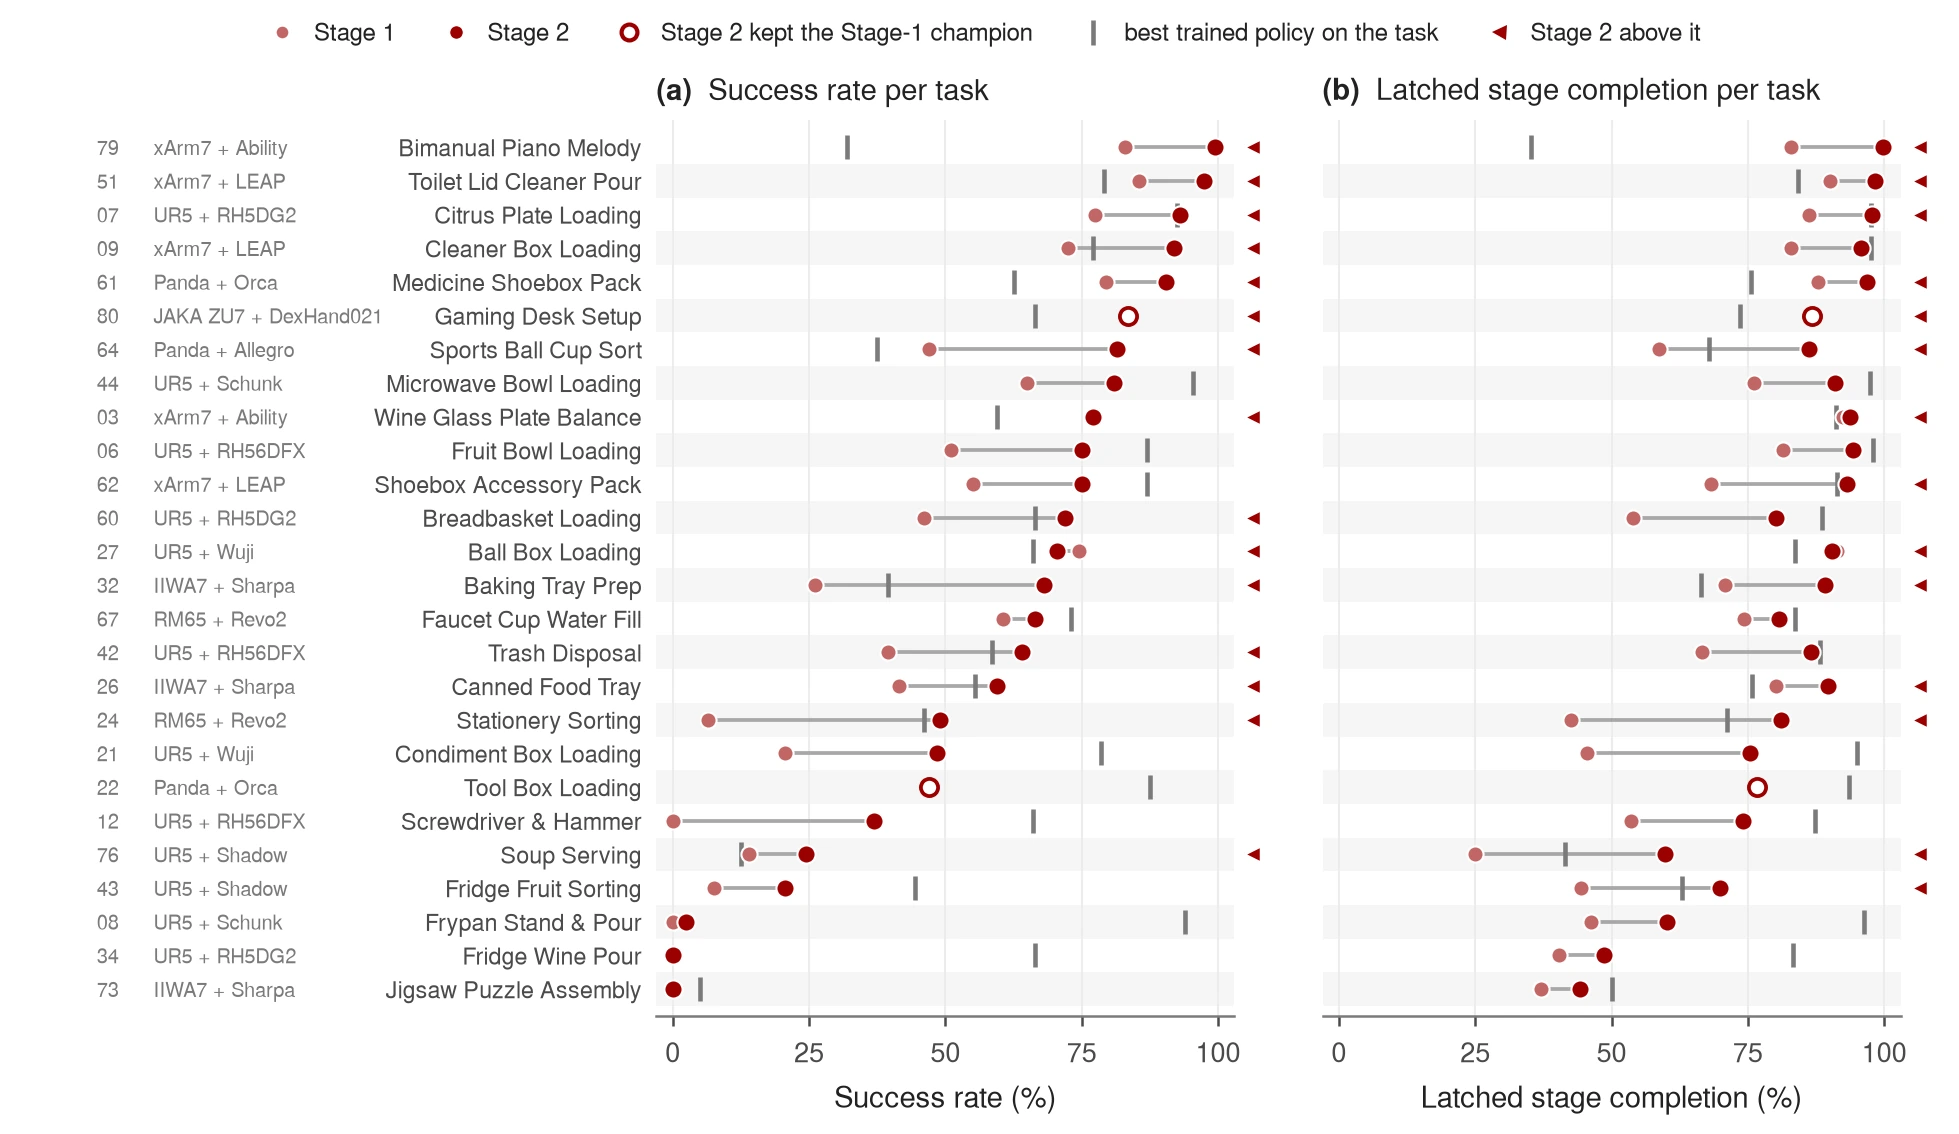
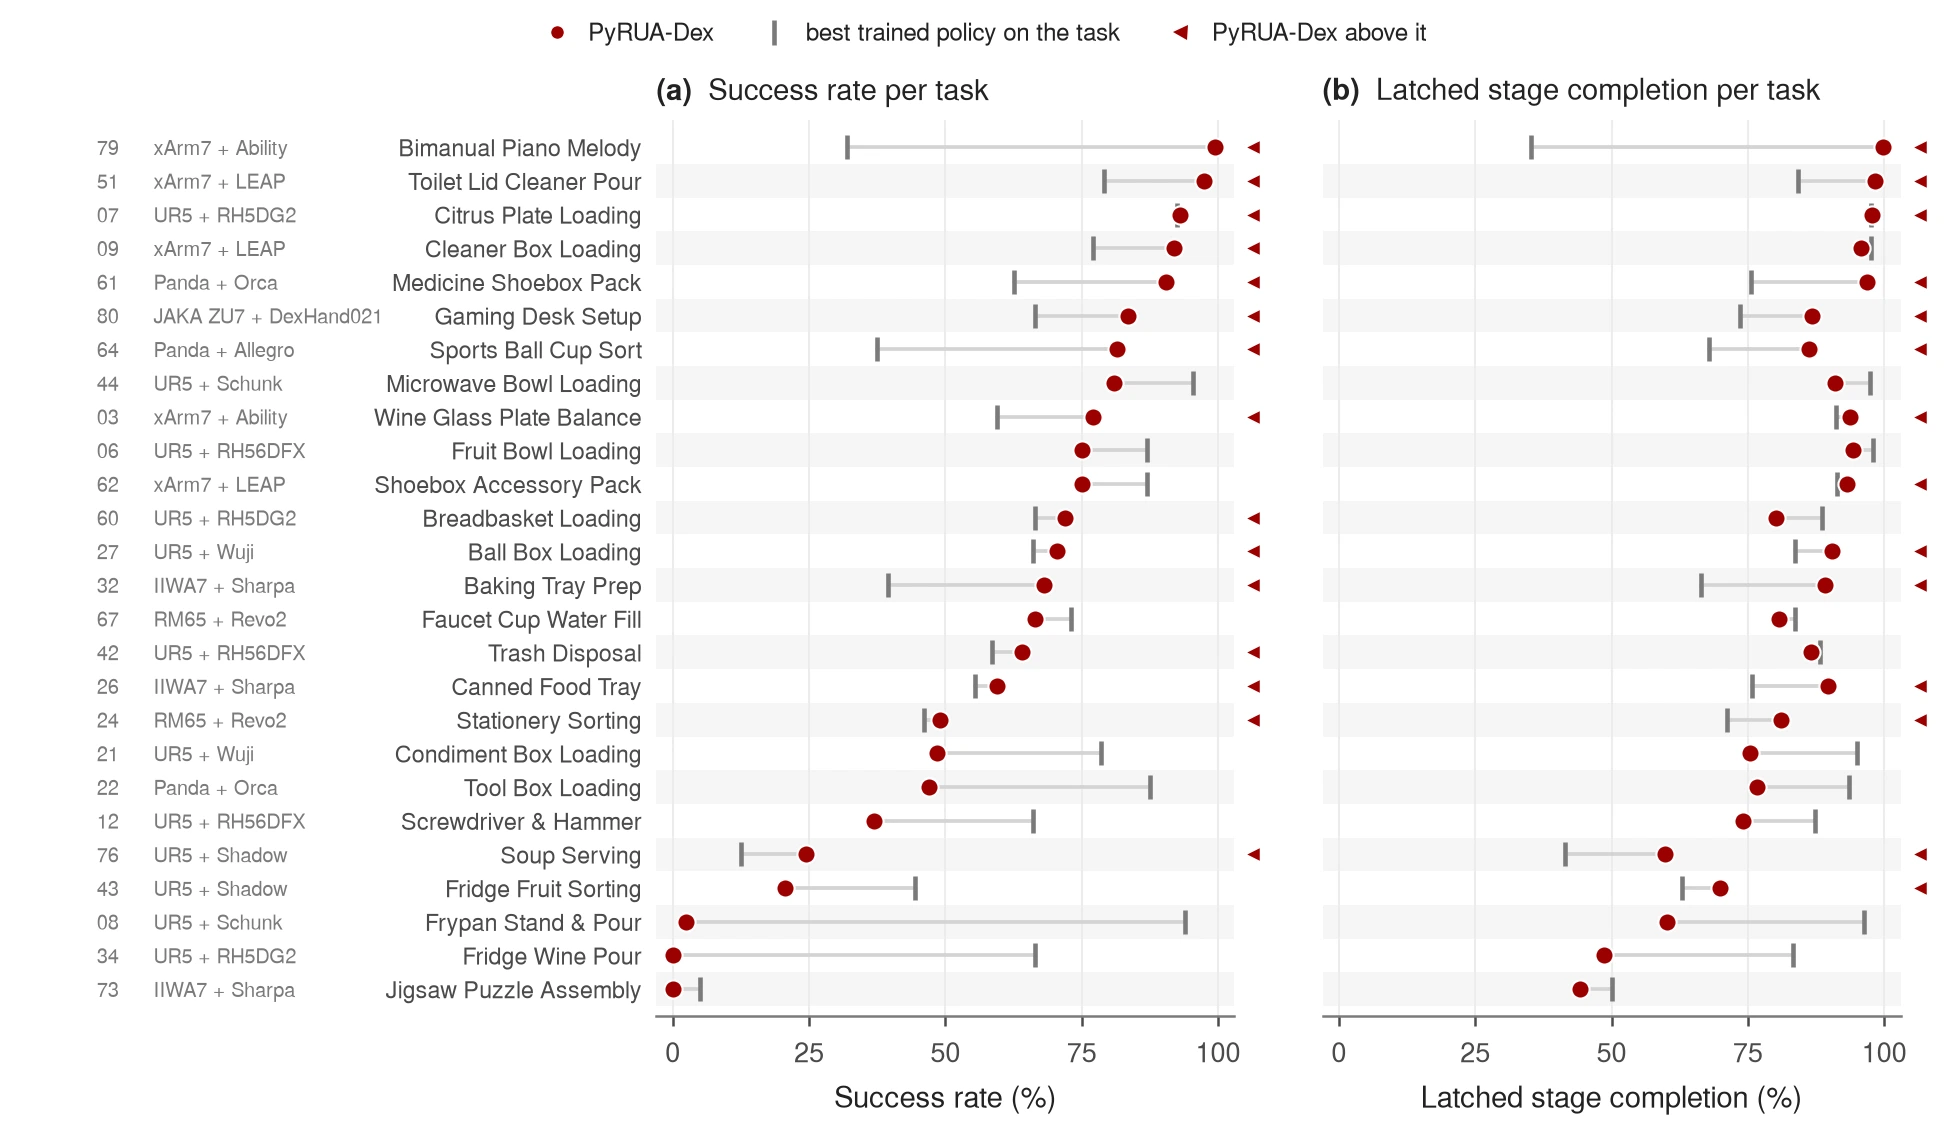
PyRUA-Dex page: Bench2Dex lists PyRUA-Dex once
The leaderboard table, the results figure and the per-task figure show one PyRUA-Dex entry, our submission (the programs after practising), instead of one per stage. The two figures are page versions drawn from the paper's data and style; the paper keeps both stages.

diff --git a/PyRUA-Dex/index.html b/PyRUA-Dex/index.html
@@ -533,10 +533,9 @@
         <table class="lb">
           <thead><tr><th>Method</th><th>Type</th><th>Demos</th><th class="num">SR (%)</th><th class="num">LSCR (%)</th><th class="num">Eff</th><th>Score</th></tr></thead>
           <tbody>
-            <tr class="ours top"><td class="m">PyRUA-Dex, Stage 2<svg class="ic crown" aria-label="SOTA"><use href="#i-crown"/></svg></td><td><span class="type"><svg class="ic"><use href="#i-code"/></svg>Agent</span></td><td class="no-demo">none</td><td class="num"><b>60.6</b></td><td class="num"><b>82.3</b></td><td class="num">0.859</td><td><div class="score"><span class="track"><span class="fill" style="--v:72.9"></span></span><b>72.9</b></div></td></tr>
+            <tr class="ours top"><td class="m">PyRUA-Dex<svg class="ic crown" aria-label="SOTA"><use href="#i-crown"/></svg></td><td><span class="type"><svg class="ic"><use href="#i-code"/></svg>Agent</span></td><td class="no-demo">none</td><td class="num"><b>60.6</b></td><td class="num"><b>82.3</b></td><td class="num">0.859</td><td><div class="score"><span class="track"><span class="fill" style="--v:72.9"></span></span><b>72.9</b></div></td></tr>
             <tr><td class="m">ME-Dex 1.5</td><td><span class="type"><svg class="ic"><use href="#i-pulse"/></svg>VTA</span></td><td class="yes"><svg class="ic"><use href="#i-check"/></svg></td><td class="num">58.6</td><td class="num">76.3</td><td class="num">0.979</td><td><div class="score"><span class="track"><span class="fill" style="--v:70.5"></span></span><b>70.5</b></div></td></tr>
             <tr><td class="m">GigaWorld-Policy-0.6</td><td><span class="type"><svg class="ic"><use href="#i-globe"/></svg>WAM</span></td><td class="yes"><svg class="ic"><use href="#i-check"/></svg></td><td class="num">51.4</td><td class="num">70.9</td><td class="num">0.962</td><td><div class="score"><span class="track"><span class="fill" style="--v:64.6"></span></span><b>64.6</b></div></td></tr>
-            <tr class="ours s1"><td class="m">PyRUA-Dex, Stage 1</td><td><span class="type"><svg class="ic"><use href="#i-code"/></svg>Agent</span></td><td class="no-demo">none</td><td class="num">44.6</td><td class="num">67.0</td><td class="num">0.889</td><td><div class="score"><span class="track"><span class="fill" style="--v:59.13"></span></span><b>59.1</b></div></td></tr>
             <tr><td class="m">Phoenix-MWA</td><td><span class="type"><svg class="ic"><use href="#i-globe"/></svg>WAM</span></td><td class="yes"><svg class="ic"><use href="#i-check"/></svg></td><td class="num">45.6</td><td class="num">65.6</td><td class="num">0.903</td><td><div class="score"><span class="track"><span class="fill" style="--v:59.07"></span></span><b>59.1</b></div></td></tr>
             <tr><td class="m">MXI</td><td><span class="type"><svg class="ic"><use href="#i-eye"/></svg>VLA</span></td><td class="yes"><svg class="ic"><use href="#i-check"/></svg></td><td class="num">36.9</td><td class="num">54.8</td><td class="num">0.970</td><td><div class="score"><span class="track"><span class="fill" style="--v:50.9"></span></span><b>50.9</b></div></td></tr>
             <tr><td class="m">Mora V0</td><td><span class="type"><svg class="ic"><use href="#i-eye"/></svg>VLA</span></td><td class="yes"><svg class="ic"><use href="#i-check"/></svg></td><td class="num">33.2</td><td class="num">52.3</td><td class="num">0.974</td><td><div class="score"><span class="track"><span class="fill" style="--v:48.2"></span></span><b>48.2</b></div></td></tr>
@@ -550,7 +549,7 @@
           </tbody>
         </table>
       </div>
-      <div class="lb-note">Four-channel means (None, Equi., Inv., Full) of every <a href="https://bench2dex.github.io/Bench2Dex-Leaderboard/" target="_blank" rel="noopener">Bench2Dex leaderboard</a> entry that reports all four channels; ME-Dex 1.5 from its leaderboard submission. Demos: trained on the benchmark's teleoperated demonstrations. IL: imitation learning; VLA: vision-language-action model; WAM: world-action model; VTA: visuo-tactile action model. Stage 1 59.13, Phoenix-MWA 59.07.</div>
+      <div class="lb-note">Four-channel means (None, Equi., Inv., Full) of every <a href="https://bench2dex.github.io/Bench2Dex-Leaderboard/" target="_blank" rel="noopener">Bench2Dex leaderboard</a> entry that reports all four channels; ME-Dex 1.5 from its leaderboard submission. Demos: trained on the benchmark's teleoperated demonstrations. IL: imitation learning; VLA: vision-language-action model; WAM: world-action model; VTA: visuo-tactile action model.</div>
     </div>
 
     <div class="ins-grid">
@@ -560,12 +559,12 @@
     </div>
 
     <figure class="fig rv" style="margin-top:22px">
-      <a class="zoom" href="static/images/paper/fig-results.webp?v=20261123c"><img src="static/images/paper/fig-results.webp?v=20261123c" alt="Bench2Dex results: scores of all four-channel entries, success rate against stage completion, and success rate against execution budget" width="1959" height="666" loading="lazy"></a>
+      <a class="zoom" href="static/images/paper/fig-results.webp?v=20261124"><img src="static/images/paper/fig-results.webp?v=20261124" alt="Bench2Dex results: scores of all four-channel entries, success rate against stage completion, and success rate against execution budget" width="1959" height="666" loading="lazy"></a>
       <figcaption><b>Bench2Dex results.</b> (a) Score of every four-channel entry; the dashed line marks the best trained policy. (b) Success rate against latched stage completion. (c) Full-channel success rate against the execution budget; the frozen programs spend no tokens at test time.</figcaption>
     </figure>
     <figure class="fig rv">
-      <a class="zoom" href="static/images/paper/fig-pertask.webp"><img src="static/images/paper/fig-pertask.webp" alt="Per-task success rate and stage completion of the Stage 1 and Stage 2 champions with the best trained policy on each task" width="1959" height="1134" loading="lazy"></a>
-      <figcaption><b>Per-task results.</b> (a) Success rate and (b) latched stage completion of the Stage 1 and Stage 2 champions, with the best trained policy on each task (grey tick). Triangles: Stage 2 above the best trained policy (15 of 26 tasks in success rate). Hollow markers: the Stage 1 champion kept.</figcaption>
+      <a class="zoom" href="static/images/paper/fig-pertask.webp?v=20261124"><img src="static/images/paper/fig-pertask.webp?v=20261124" alt="Per-task success rate and stage completion of PyRUA-Dex with the best trained policy on each task" width="1959" height="1134" loading="lazy"></a>
+      <figcaption><b>Per-task results.</b> (a) Success rate and (b) latched stage completion of PyRUA-Dex on each task, with the best trained policy on the task (grey tick). Triangles: PyRUA-Dex above the best trained policy (15 of 26 tasks in success rate).</figcaption>
     </figure>
 
     <h3 class="h3 rv"><svg class="ic"><use href="#i-target"/></svg>What practising adds</h3>
